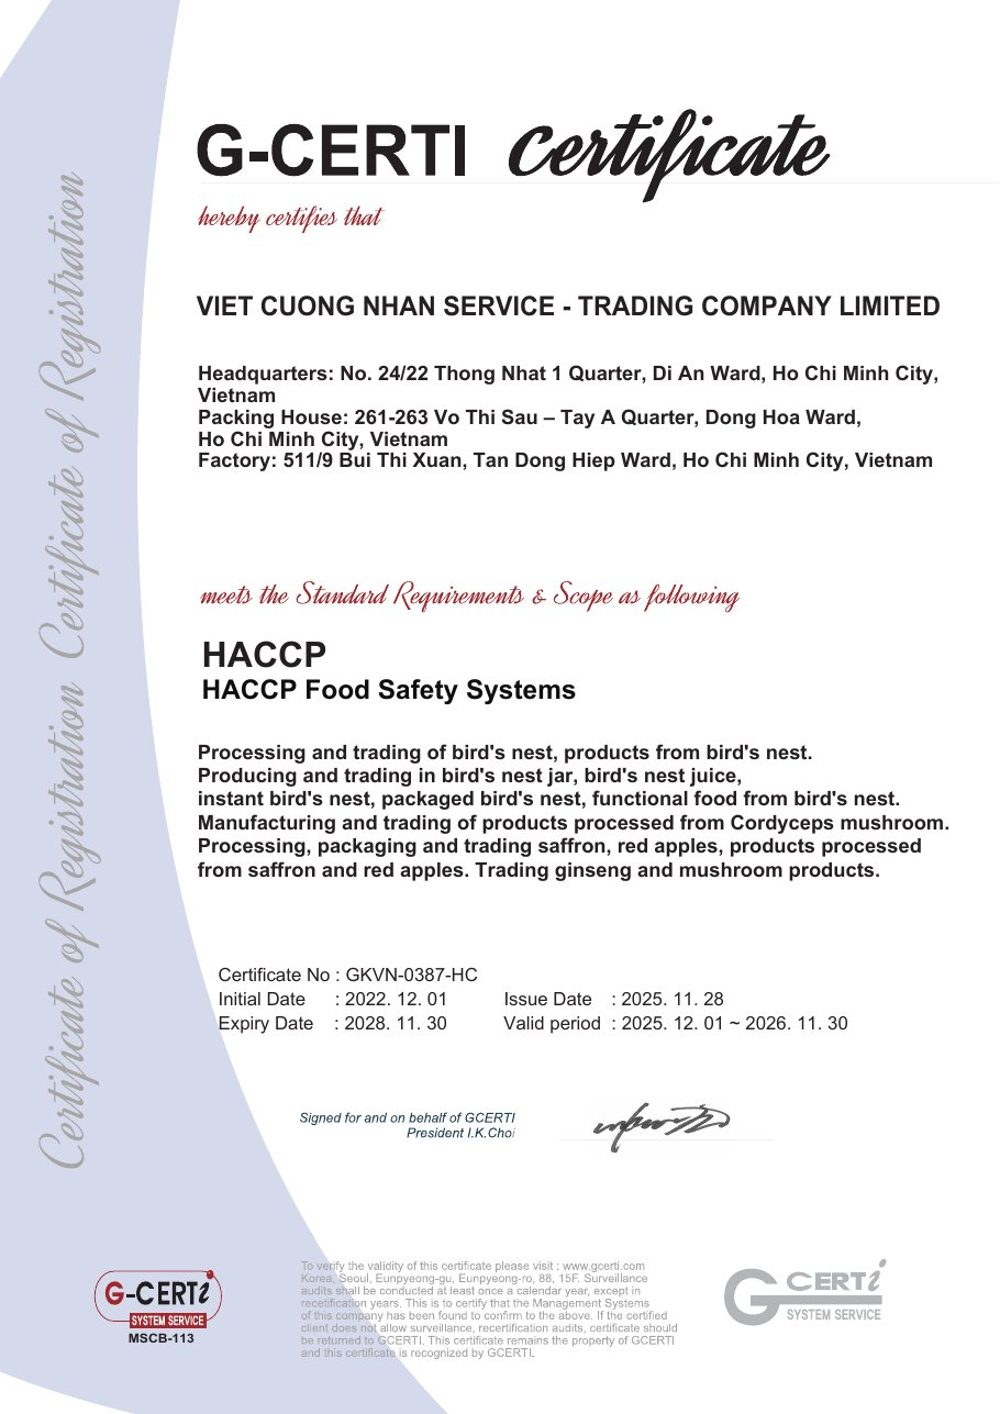
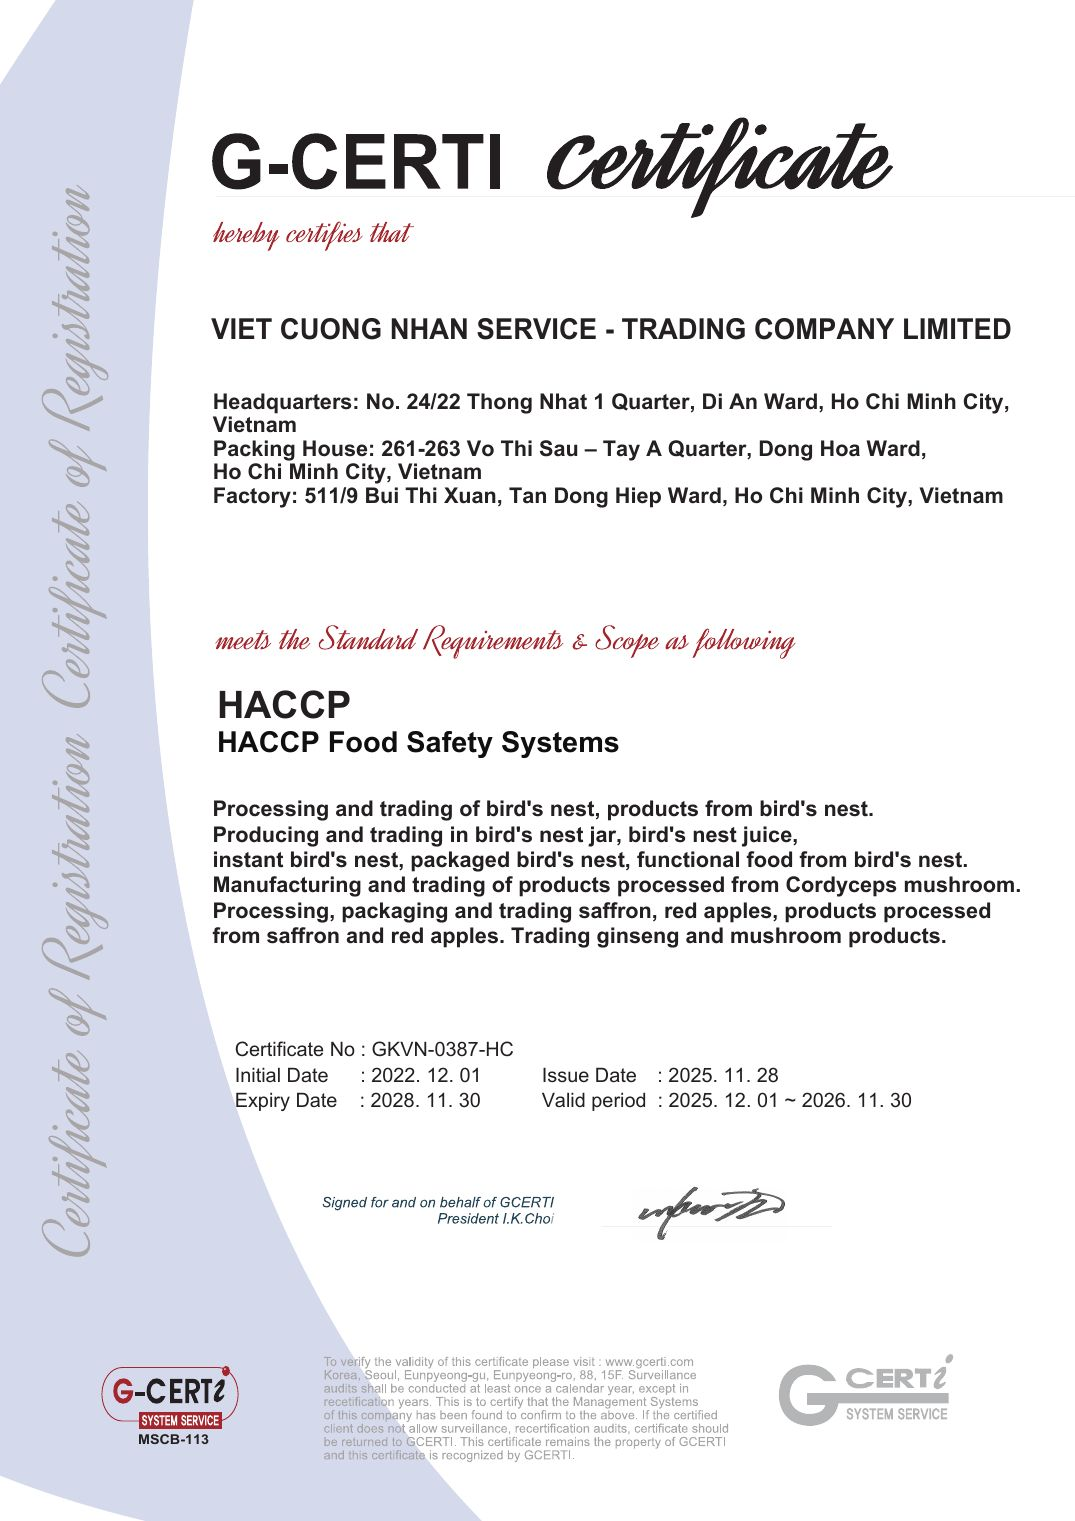
Bổ sung chứng nhận HACCP, ISO 22000, GMP 2026 và bản tự công bố yến thô, yến tinh chế, đông trùng hạ thảo
Claude-Session: https://claude.ai/code/session_01E8MSwWaDSn7uRkLKMoDcAi

diff --git a/index.html b/index.html
@@ -162,7 +162,7 @@ section.block { padding-block: 56px; }
 @media (max-width: 760px) { .b2b .wrap { grid-template-columns: 1fr; } }
 .docs { margin-top: 34px; }
 .docs h3 { font-size: 26px; color: var(--emerald-2); margin: 0 0 4px; }
-.docs .grid-d { display: grid; grid-template-columns: repeat(4, 1fr); gap: 14px; margin-top: 14px; }
+.docs .grid-d { display: grid; grid-template-columns: repeat(3, 1fr); gap: 14px; margin-top: 14px; }
 .docs .grid-d button { border: 1px solid var(--line); border-radius: 12px; background: var(--paper); padding: 0; cursor: zoom-in; overflow: hidden; text-align: left; font: inherit; color: inherit; }
 .docs .grid-d img { display: block; width: 100%; aspect-ratio: 1; object-fit: cover; object-position: top; }
 .docs .grid-d span { display: block; padding: 8px 10px; font-size: 13px; font-weight: 600; color: var(--emerald-2); }
@@ -258,7 +258,7 @@ dialog.lb::backdrop { background: rgba(8,16,12,.85); }
       <div class="facts">
         <div><b id="f-count">67</b>sản phẩm</div>
         <div><b id="f-min">Từ 35.000đ</b>dùng thử</div>
-        <div><b>HACCP</b>chứng nhận</div>
+        <div><b>HACCP · ISO</b>GMP chứng nhận</div>
       </div>
     </div>
     <div class="seal"><img src="logo.png" alt="Logo Việt Cường Nhân, Excellence in Every Product"></div>
@@ -284,13 +284,13 @@ dialog.lb::backdrop { background: rgba(8,16,12,.85); }
     <div class="head"><div><div class="eyebrow">Vì sao chọn Việt Cường Nhân</div><h2>Cam kết</h2></div></div>
     <div class="trust">
       <div><h3>Tự sản xuất</h3><p>Yến sào, nước yến chưng và nấm đông trùng hạ thảo do Việt Cường Nhân sơ chế, sản xuất tại cơ sở đóng gói Võ Thị Sáu và nhà máy Bùi Thị Xuân, TP.HCM.</p></div>
-      <div><h3>Chứng nhận HACCP</h3><p>Hệ thống quản lý an toàn thực phẩm đạt HACCP (G-CERTI, số GKVN-0387-HC). <a href="#ho-so">Xem chứng nhận</a></p></div>
+      <div><h3>HACCP · ISO 22000 · GMP</h3><p>Hệ thống quản lý an toàn thực phẩm đạt HACCP, ISO 22000:2018 và GMP (G-CERTI). Sản phẩm yến và đông trùng hạ thảo có bản tự công bố. <a href="#ho-so">Xem giấy tờ</a></p></div>
       <div><h3>Tư vấn cách dùng</h3><p>Hướng dẫn ngâm, chưng và bảo quản cho từng loại yến. Gọi hoặc nhắn Zalo 0978 094 739.</p></div>
     </div>
     <div class="docs" id="ho-so">
-      <h3>Chứng nhận</h3>
-      <p style="margin:0;color:var(--muted)">Phạm vi chứng nhận HACCP: sơ chế và kinh doanh yến sào, sản phẩm từ yến (yến chưng sẵn, nước yến, yến đóng gói); nuôi cấy, sản xuất nấm đông trùng hạ thảo; đóng gói nhụy hoa nghệ tây, táo đỏ; kinh doanh nhân sâm. Bấm vào giấy để xem rõ.</p>
-      <div class="grid-d"><button type="button" data-doc="haccp"><img src="ho-so/haccp.jpg" alt="Chứng nhận HACCP Việt Cường Nhân" loading="lazy"><span>Chứng nhận HACCP (hiệu lực 01/12/2025 – 30/11/2026)</span></button></div>
+      <h3>Chứng nhận &amp; hồ sơ công bố</h3>
+      <p style="margin:0;color:var(--muted)">Phạm vi chứng nhận: sơ chế và kinh doanh yến sào, sản phẩm từ yến (yến chưng sẵn, nước yến, yến đóng gói); nuôi cấy, sản xuất nấm đông trùng hạ thảo; đóng gói nhụy hoa nghệ tây, táo đỏ; kinh doanh nhân sâm. Bấm vào giấy để xem rõ.</p>
+      <div class="grid-d"><button type="button" data-doc="haccp"><img src="ho-so/haccp-vn.jpg" alt="Chứng nhận HACCP Việt Cường Nhân" loading="lazy"><span>HACCP (hiệu lực đến 30/11/2026)</span></button><button type="button" data-doc="iso"><img src="ho-so/iso22000-vn.jpg" alt="Chứng nhận ISO 22000:2018 Việt Cường Nhân" loading="lazy"><span>ISO 22000:2018 (hiệu lực đến 28/06/2027)</span></button><button type="button" data-doc="gmp"><img src="ho-so/gmp.jpg" alt="Chứng nhận GMP Việt Cường Nhân" loading="lazy"><span>GMP (hiệu lực đến 21/08/2027)</span></button><button type="button" data-doc="yen-tho"><img src="ho-so/trang/yen-tho-1.jpg" alt="Bản tự công bố sản phẩm Tổ yến thô" loading="lazy"><span>Tự công bố: Tổ yến thô</span></button><button type="button" data-doc="yen-tinh-che"><img src="ho-so/trang/yen-tinh-che-1.jpg" alt="Bản tự công bố sản phẩm Tổ yến tinh chế" loading="lazy"><span>Tự công bố: Tổ yến tinh chế</span></button><button type="button" data-doc="dong-trung"><img src="ho-so/trang/dong-trung-1.jpg" alt="Bản tự công bố sản phẩm Nấm đông trùng hạ thảo" loading="lazy"><span>Tự công bố: Nấm đông trùng hạ thảo</span></button></div>
     </div>
   </div>
 </section>
@@ -695,7 +695,14 @@ Ghi chú: ${v("o-note") || "không"}`;
 document.addEventListener("click", e => { const a = e.target.closest('a[href*="zalo.me"], a[href^="tel:"]'); if (a) { try { gtag("event", a.href.includes("zalo") ? "click_zalo" : "click_call"); } catch {} try { fbq("track", "Contact"); } catch {} } });
 // Hồ sơ pháp lý: mỗi giấy tờ mở trong khung xem ảnh, đủ các trang.
 const pages = (n, c, t) => Array.from({length: c}, (_, i) => [`ho-so/trang/${n}-${i + 1}.jpg`, `${t} (trang ${i + 1}/${c})`]);
-const DOCS = { haccp: [["ho-so/haccp.jpg", "Chứng nhận HACCP Việt Cường Nhân, GKVN-0387-HC"]] };
+const DOCS = {
+  haccp: [["ho-so/haccp-vn.jpg", "Chứng nhận HACCP, GKVN-0387-HC (tiếng Việt)"], ["ho-so/haccp.jpg", "HACCP certificate, GKVN-0387-HC (English)"]],
+  iso: [["ho-so/iso22000-vn.jpg", "Chứng nhận ISO 22000:2018, GKVN-0387-FC (tiếng Việt)"], ["ho-so/iso22000.jpg", "ISO 22000:2018 certificate, GKVN-0387-FC (English)"]],
+  gmp: [["ho-so/gmp.jpg", "Chứng nhận GMP, GKVN-0387-GMP"]],
+  "yen-tho": pages("yen-tho", 5, "Bản tự công bố Tổ yến thô"),
+  "yen-tinh-che": pages("yen-tinh-che", 5, "Bản tự công bố Tổ yến tinh chế"),
+  "dong-trung": pages("dong-trung", 7, "Bản tự công bố Nấm đông trùng hạ thảo")
+};
 document.addEventListener("click", e => { const d = e.target.closest("[data-doc]"); if (d) lbOpen(DOCS[d.dataset.doc], 0); });
 document.getElementById("o-zalo").addEventListener("click", async e => {
   // Zalo không cho điền sẵn tin nhắn: chép nội dung đơn rồi mở Zalo để khách dán vào.
